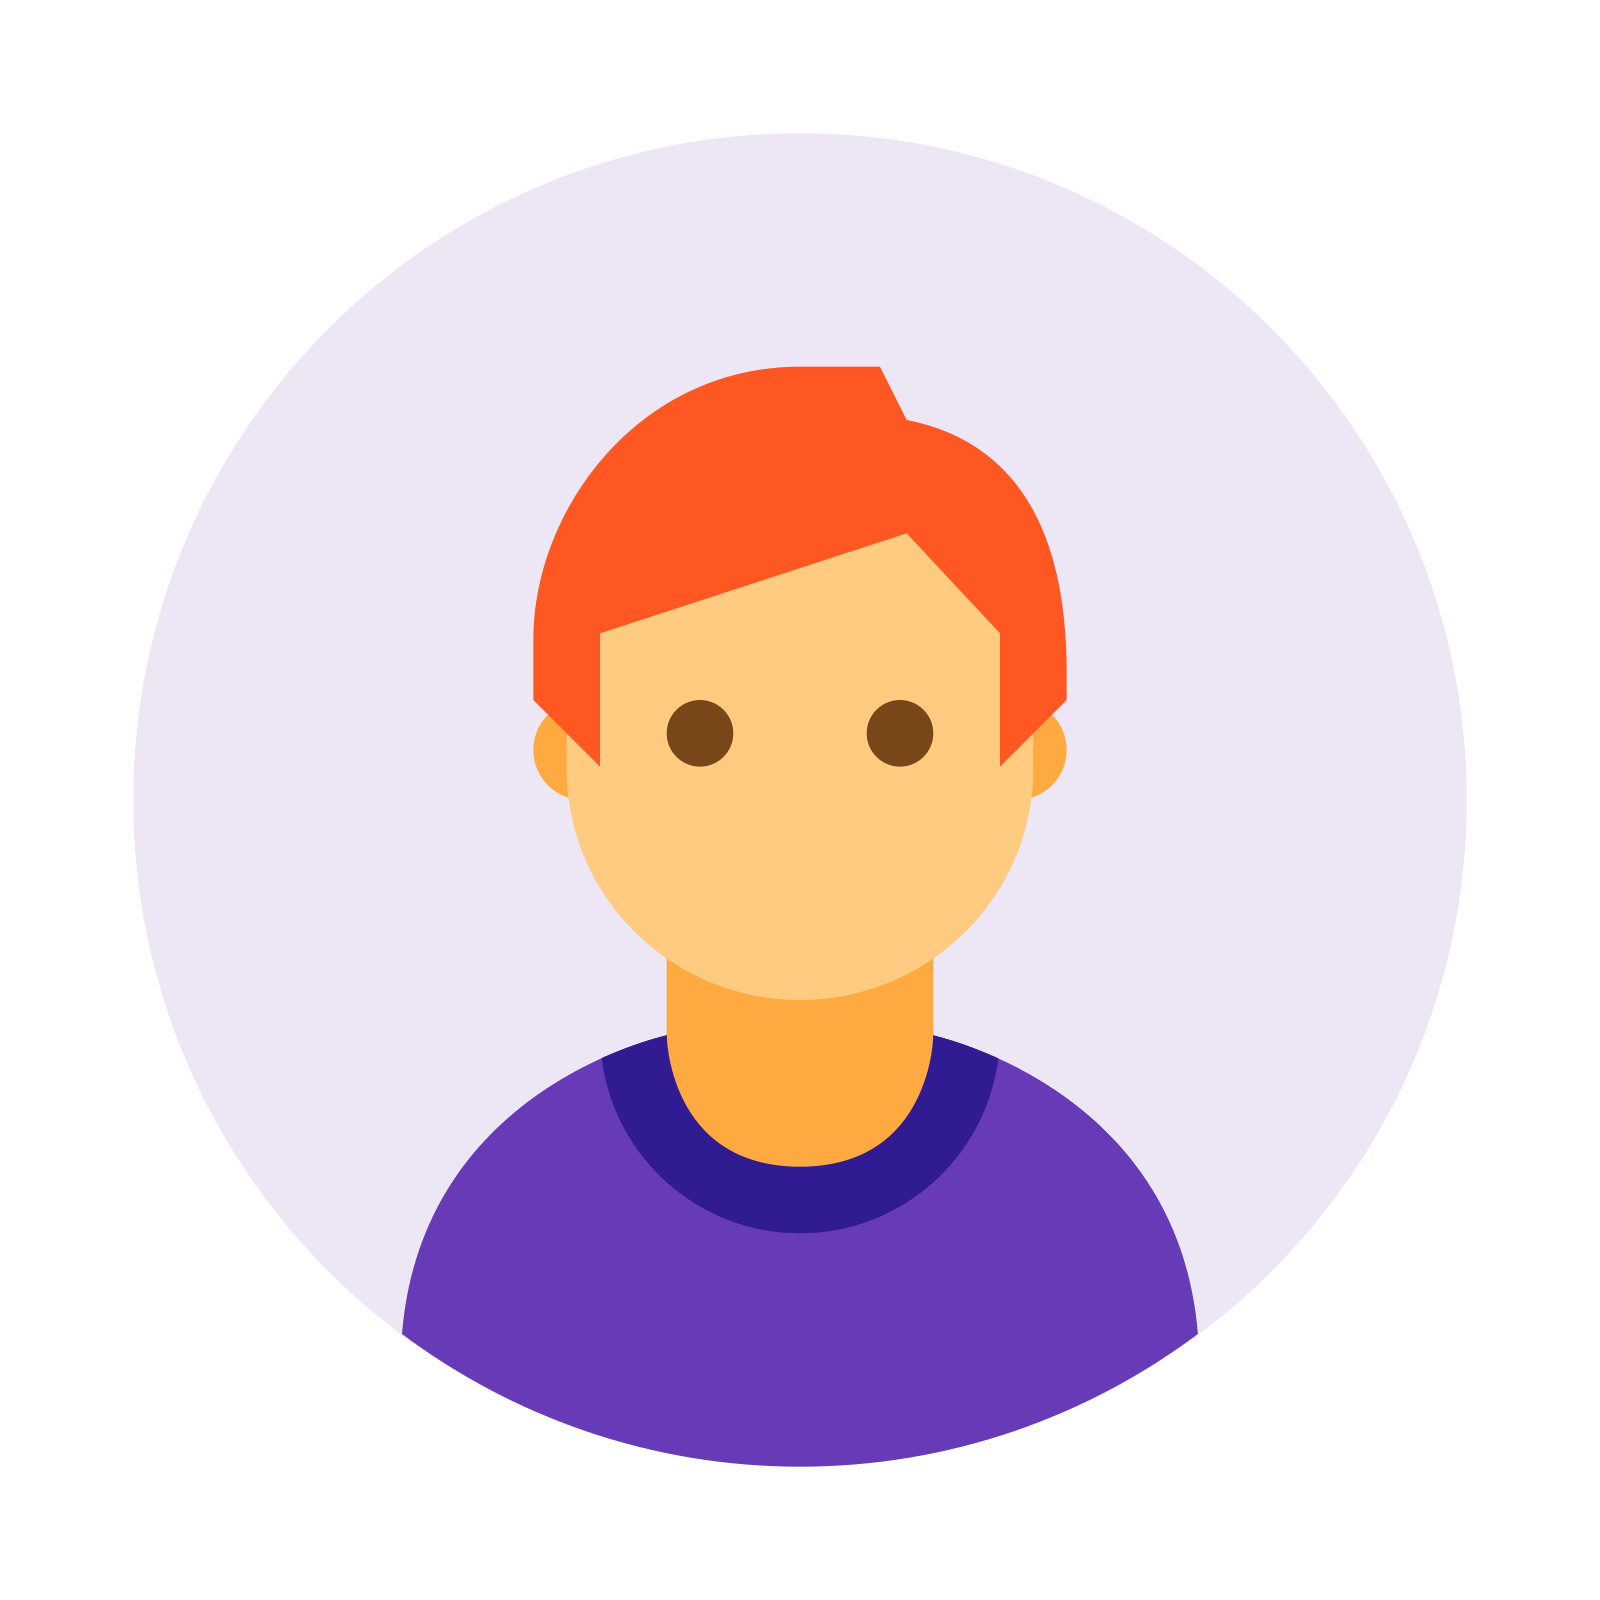
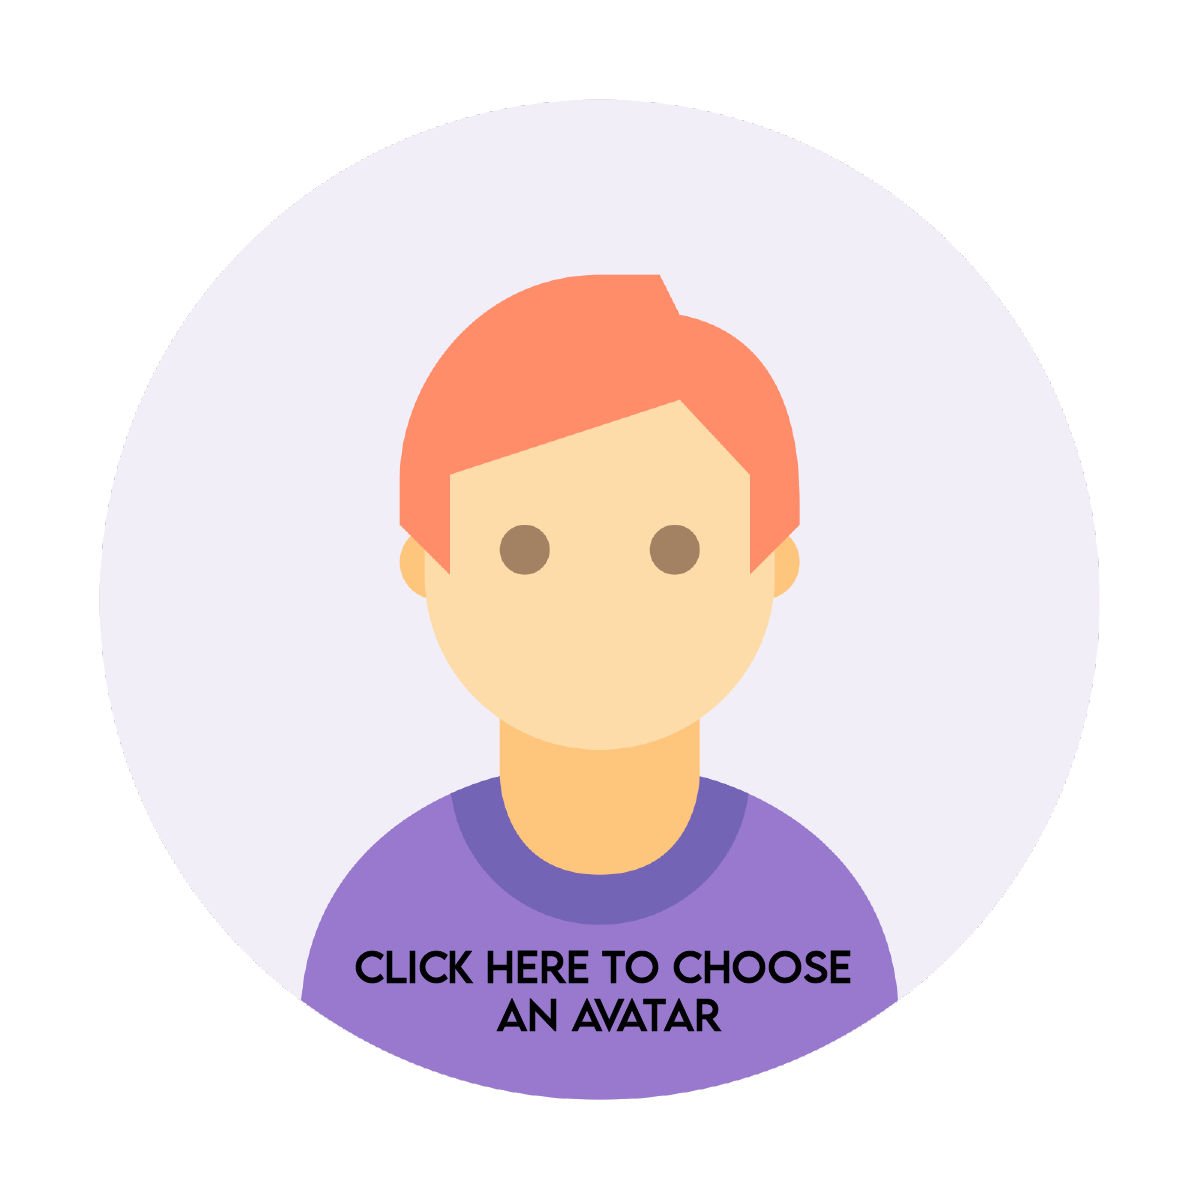
Creacion implementada

Changed region(s): [[0.2467, 0.2158, 0.7708, 0.925]]

diff --git a/src/components/user/UserControl.tsx b/src/components/user/UserControl.tsx
@@ -1,67 +1,135 @@
 import { useEffect, useState } from 'react';
-import { Button, Card, Col, Image, Input, Row, Text, useModal, useSSR } from "@nextui-org/react"
+import { Button, Col, Image, Input, Loading, Row, Text, useModal } from "@nextui-org/react"
+import { useForm, SubmitHandler } from 'react-hook-form';
 
+import { ToastAlert } from '../generic-components/Toaster'
+import { AvatarSelect } from '../generic-components';
 import { User } from "../../interfaces";
 import no_avatar from '../../assets/img/no_avatar.png';
-import { AvatarSelect } from '../generic-components';
+import { UserServices } from '../../api/services';
+import { useLocation } from 'wouter';
+
+const _userServices = new UserServices();
 
 export const UserControl = () => {
 
+    /* const [user, setUser] = useState<User | {}>({}); */
 
-    const [user, setUser] = useState<User>({
-        createdAt: '',
-        avatar: '',
-        first_name: '',
-        second_name: '',
-        email: '',
-        id: '',
-    })
-
+    const { Toasty } = ToastAlert();
+    const [location, setLocation] = useLocation();
+    const [avatar, setAvatar] = useState(no_avatar);
     const { setVisible, bindings } = useModal();
+    const { register, formState: { errors }, handleSubmit } = useForm<User>();
+    const [spinner, setSpinner] = useState(false);
 
     useEffect(() => {
 
     }, [])
 
+    const createUser = (data: User) => {
+        setSpinner(true)
+        _userServices.createUser(data)
+            .subscribe((resp) => {
+                setSpinner(false)
+                console.log(resp);
+                setLocation('/home');
+                Toasty({
+                    type: "success",
+                    message: `User created successfully`,
+                });
+            })
+    }
+
+    const onSubmit: SubmitHandler<User> = (data) => {
+        data.avatar = avatar;
+        console.log(data);
+        if (data.avatar === no_avatar) {
+            Toasty({
+                type: "warning",
+                message: `Plase select an Avatar`,
+            });
+            setVisible(true);
+        } else {
+            //PROCEED TO CREATE THE USER
+            createUser(data);
+        }
+    }
+
 
     return (
         <>
             <div style={{ width: '100%', height: 'auto', marginTop: '80px' }}>
-                <div className="card-glass animate__animated animate__backInUp">
-                    <Row className="avatar-container">
-                        <Image
-                            css={{ maxWidth: '400px' }}
-                            className="avatar-select"
-                            src={no_avatar}
-                            alt="avatar img"
-                            objectFit='cover'
-                        />
-                        <div className="avatar-hiden">
-                            <Button flat onClick={() => setVisible(true)}>
-                                Choose an Avatar
+                <form onSubmit={handleSubmit(onSubmit)} >
+                    <div className="card-glass animate__animated animate__backInUp">
+                        <Row className="avatar-container">
+                            <Image
+                                css={{ maxWidth: '400px' }}
+                                className="avatar-select"
+                                src={avatar}
+                                alt="avatar img"
+                                objectFit='cover'
+                            />
+                            <div className="avatar-hiden">
+                                <Button flat onClick={() => setVisible(true)}>
+                                    Choose an Avatar
+                                </Button>
+                            </div>
+                        </Row>
+                        <Row>
+                            <Text>Please provide the user information</Text>
+                        </Row>
+                        <Row css={{ gap: 15 }}>
+                            <Col>
+                                <Input css={{ width: '100%' }} labelPlaceholder="First Name"
+                                    {...register("first_name", { required: true })}
+                                />
+                                {errors.first_name &&
+                                    <Text color="error">
+                                        First name is required
+                                    </Text>
+                                }
+                            </Col>
+                            <Col>
+                                <Input css={{ width: '100%' }} labelPlaceholder="Second Name"
+                                    {...register("second_name", { required: true })}
+                                />
+                                {errors.second_name &&
+                                    <Text color="error">
+                                        Second name is required
+                                    </Text>
+                                }
+                            </Col>
+                        </Row>
+                        <Row>
+                            <Col>
+                                <Input css={{ width: '100%' }} labelPlaceholder="E-mail"
+                                    {...register("email", {
+                                        required: 'E-mail name is required', pattern: {
+                                            value: /^[a-z0-9._%+-]+@[a-z0-9.-]+\.[a-z]{2,4}$/,
+                                            message: 'Must to be a valid e-mail'
+                                        }
+                                    })}
+                                />
+                                {errors.email?.message &&
+                                    <Text color="error">
+                                        {errors.email?.message}
+                                    </Text>
+                                }
+                            </Col>
+                        </Row>
+                        <Row className="center">
+                            <Button flat color="gradient" type="submit">
+                                {!spinner ?
+                                    'CREATE'
+                                    :
+                                    <Loading type="points" color="currentColor" size="sm" />
+                                }
                             </Button>
-                        </div>
-                    </Row>
-                    <Row>
-                        <Text>Please provide the user information</Text>
-                    </Row>
-                    <Row css={{ gap: 15 }}>
-                        <Col>
-                            <Input css={{ width: '100%' }} labelPlaceholder="First Name" />
-                        </Col>
-                        <Col>
-                            <Input css={{ width: '100%' }} labelPlaceholder="Second Name" />
-                        </Col>
-                    </Row>
-                    <Input labelPlaceholder="E-mail" />
-                    <Row className="center">
-                        <Button flat color="gradient">
-                            CREATE
-                        </Button>
-                    </Row>
-                </div>
+                        </Row>
+                    </div>
+                </form>
             </div>
-            <AvatarSelect setVisible={setVisible} bindings={bindings} />
+            <AvatarSelect setAvatar={setAvatar} setVisible={setVisible} bindings={bindings} />
         </>
     )
 }

diff --git a/src/components/generic-components/AvatarList.tsx b/src/components/generic-components/AvatarList.tsx
@@ -1,15 +1,18 @@
-import { Avatar, Tooltip } from '@nextui-org/react';
-import { useEffect, useState } from 'react'
-import { AvatarItem } from '../../interfaces';
+import { FC, useEffect, useState } from 'react'
+import { Avatar } from '@nextui-org/react';
 
-export const AvatarList = () => {
+import { AvatarItem } from '../../interfaces';
+interface Props {
+    choose: Function
+}
+
+export const AvatarList: FC<Props> = ({choose}) => {
 
     const [avatarList, setAvatarList] = useState<AvatarItem[]>([]);
 
     useEffect(() => {
         generateAvatarList();
     }, [])
-
 
     /**
      * Generates a list of hundred avatars to choose
@@ -33,15 +36,19 @@ export const AvatarList = () => {
         <div className="center grid-wrap">
             {
                 avatarList.map((avatar: AvatarItem, index) =>
-                    <Tooltip content="Choose Me!" color="success">
-                        <div key={index}>
-                            <Avatar
-                                css={{ cursor: 'pointer' }}
-                                squared
-                                size={'xl'}
-                                src={avatar.src} />
-                        </div>
-                    </Tooltip>
+                    <div key={index}>
+                        <Avatar
+                            className="zoom"
+                            css={{ cursor: 'pointer' }}
+                            squared
+                            size={'xl'}
+                            src={avatar.src}
+                            onClick={() => {
+                                console.log(avatar.index, avatar.src);
+                                choose(avatar.src);
+                            }}
+                        />
+                    </div>
                 )
             }
         </div>

diff --git a/src/components/generic-components/AvatarSelect.tsx b/src/components/generic-components/AvatarSelect.tsx
@@ -4,11 +4,21 @@ import { AvatarList } from "./AvatarList";
 
 
 interface Props {
+    setAvatar: Function;
     setVisible: Function;
     bindings: any; //I could not find the exact type
 }
 
-export const AvatarSelect: FC<Props> = ({ setVisible, bindings }) => {
+export const AvatarSelect: FC<Props> = ({ setVisible, bindings, setAvatar }) => {
+
+    /**
+     * Set state that manipulates avatar img source, and close the modal.
+     * @param src Avatar source selected
+     */
+    const choose = (src: string) => {
+        setAvatar(src);
+        setVisible(false);
+    }
 
     return (
         <Modal
@@ -20,14 +30,14 @@ export const AvatarSelect: FC<Props> = ({ setVisible, bindings }) => {
         >
             <Modal.Header>
                 <Text id="modal-title" size={18}>
-                    Choose an Avatar for you
+                    Choose an Avatar for You
                 </Text>
             </Modal.Header>
             <Modal.Body>
-                <AvatarList />
+                <AvatarList choose={choose}/>
             </Modal.Body>
             <Modal.Footer>
-                <Button auto flat color="error" onClick={() => setVisible(false)}>
+                <Button auto flat color="error" onPress={() => setVisible(false)}>
                     Close
                 </Button>
             </Modal.Footer>

diff --git a/src/app/App.tsx b/src/app/App.tsx
@@ -1,6 +1,7 @@
-import { useEffect, useState } from 'react'
+import { useEffect } from 'react'
 import { NextUIProvider, createTheme } from '@nextui-org/react'
 import { Route, Switch } from 'wouter';
+import { Toaster } from "react-hot-toast";
 
 
 import store from '../redux/store'
@@ -9,8 +10,8 @@ import { Layout } from '../components/generic-components/Layout';
 import { Nav } from '../components/ui/Nav';
 import { UserControl } from '../components/user/UserControl';
 import { Provider } from 'react-redux';
-import './App.css'
 import { NotFound } from '../components/ui/NotFound';
+import './App.css'
 
 
 const darkTheme = createTheme({
@@ -46,6 +47,7 @@ function App() {
             </Route>
           </Switch>
         </Layout>
+        <Toaster position="bottom-right" />
       </NextUIProvider>
     </Provider>
   )

diff --git a/src/components/generic-components/Toaster.tsx b/src/components/generic-components/Toaster.tsx
@@ -1,0 +1,20 @@
+import toast from 'react-hot-toast';
+import { Toasty } from '../../interfaces';
+
+export const ToastAlert = () => {
+
+
+    function Toasty(bean: Toasty) {
+        if (bean.type === "success") {
+            toast.success(bean.message);
+        } else if (bean.type === "error") {
+            toast.error(bean.message);
+        } else {
+            toast(bean.message, { icon: "🔔" });
+        }
+    }
+
+    return { Toasty }
+
+
+}

diff --git a/src/api/services/UserServices.ts b/src/api/services/UserServices.ts
@@ -10,12 +10,18 @@ export class UserServices {
 
     private url = '/users';
 
+    /**
+     * Service that brings all user
+     * @returns Server api responser with all users
+     */
     public getUserList = (): Observable<User[]> => {
-
         return axios.get(this.url);
-
     }
 
     //... put all user services here
+
+    public createUser = (newUser: User): Observable<any> => {
+        return axios.post(this.url, newUser);
+    }
 
 }

diff --git a/src/interfaces/user.interface.ts b/src/interfaces/user.interface.ts
@@ -1,10 +1,10 @@
 // Generated by https://quicktype.io
 
 export interface User {
-    createdAt: string;
+    createdAt?: string;
     first_name: string;
     avatar: string;
     second_name: string;
     email: string;
-    id: string;
+    id?: string;
 }

diff --git a/src/app/App.css b/src/app/App.css
@@ -135,3 +135,12 @@
   grid-gap: 10px;
   grid-template-columns: repeat(auto-fill, 80px);
 }
+
+.zoom {
+  transition: transform 0.2s;
+  margin: 10px;
+}
+
+.zoom:hover {
+  transform: scale(1.3);
+}

diff --git a/src/interfaces/index.ts b/src/interfaces/index.ts
@@ -1,2 +1,3 @@
 export * from "./user.interface"
 export * from "./avatar.interface"
+export * from "./toasty.interface"

diff --git a/src/interfaces/toasty.interface.ts b/src/interfaces/toasty.interface.ts
@@ -1,0 +1,4 @@
+export interface Toasty {
+    type: "success" | "error" | "warning",
+    message: string
+}
